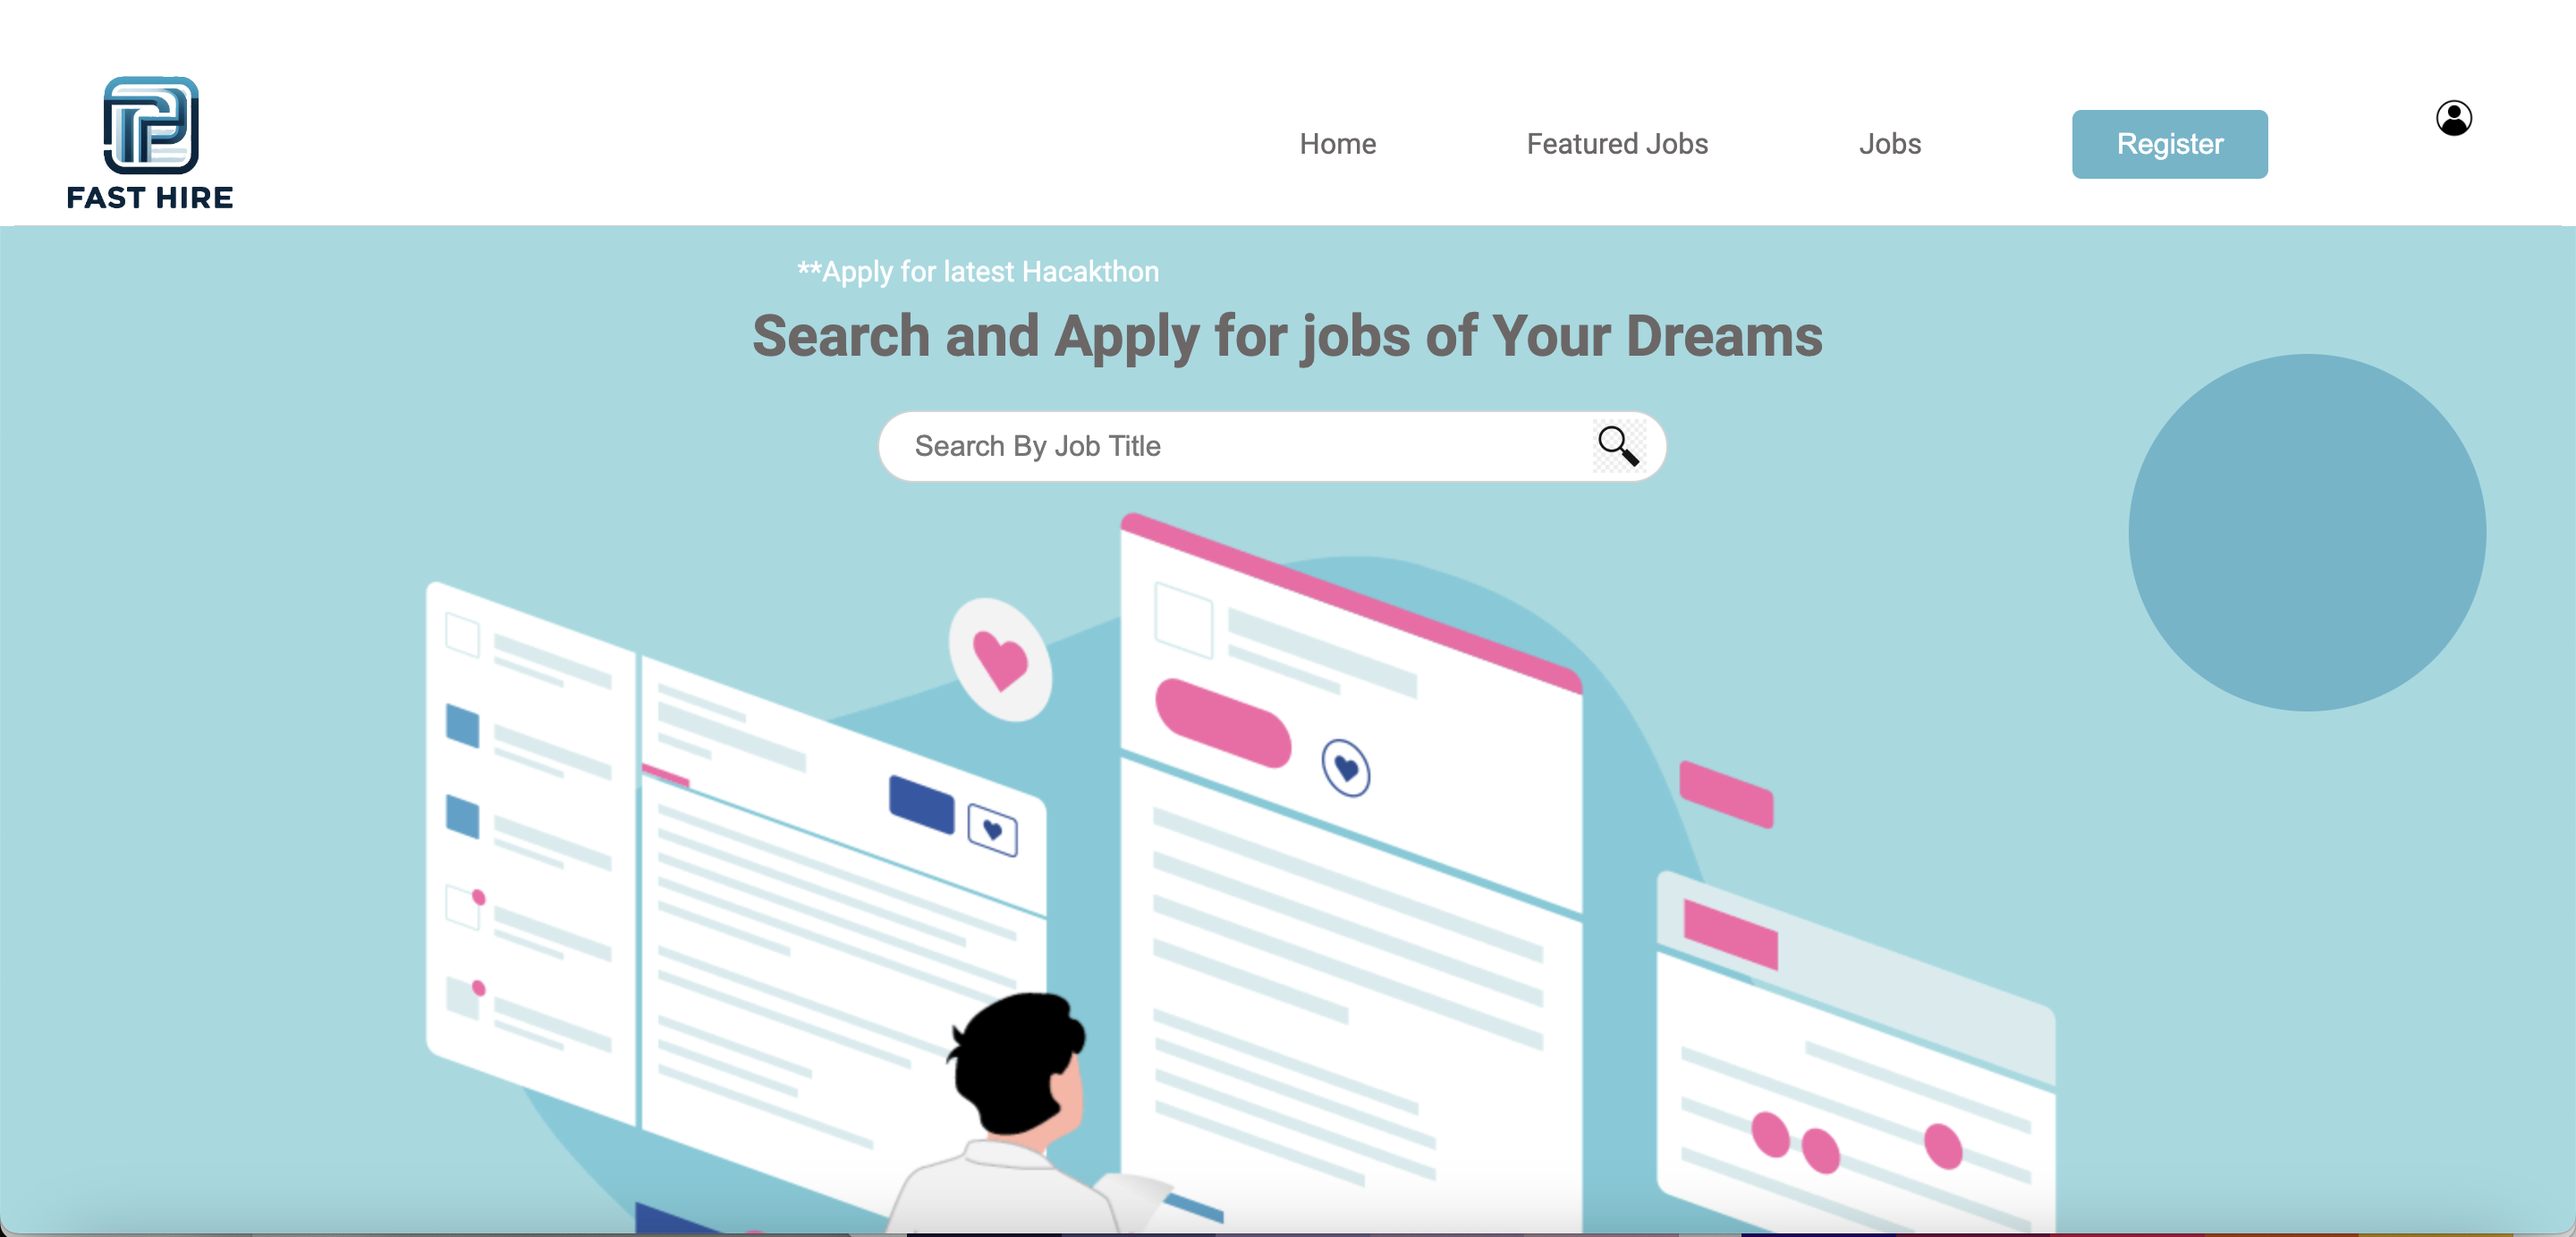
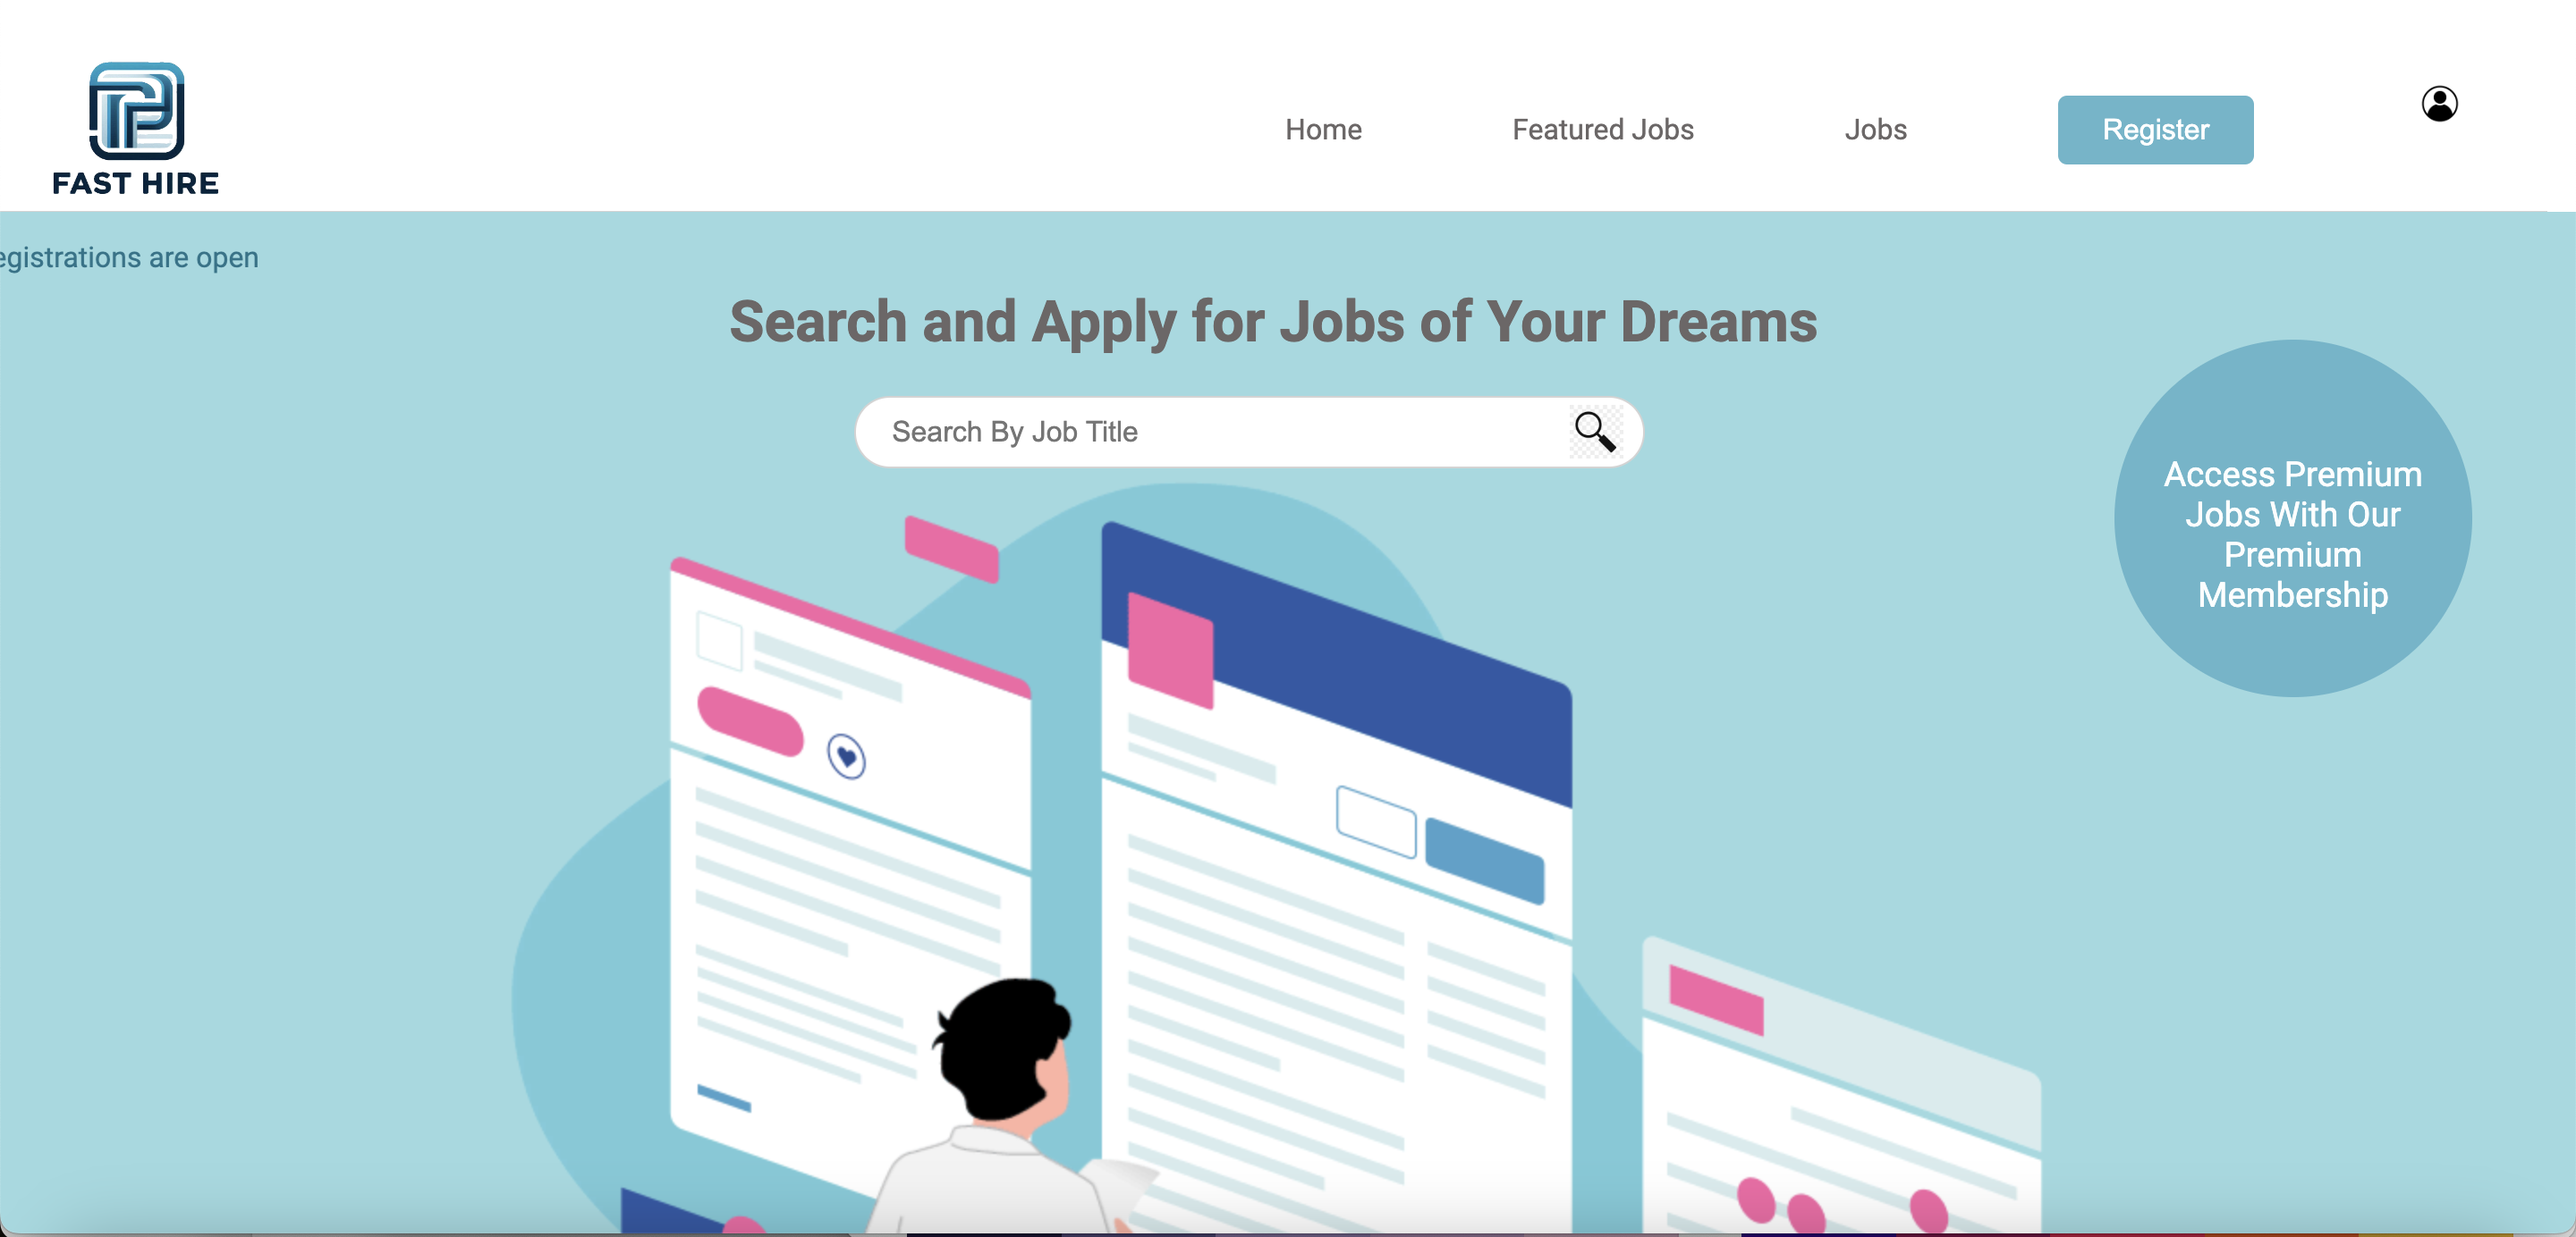
version 4 of readme.md

diff --git a/index.html b/index.html
@@ -58,7 +58,10 @@
     </header>
     <div class="job">
       <div class="marquee" style="position: absolute; margin-bottom: 40px">
-        <p class>**Apply for latest Hacakthon</p>
+        <p style="color: #1c748a">
+          Upcoming Job Hackathons : Nov 30th 2024, 10 Jan 2024. Registrations
+          are open
+        </p>
       </div>
       <h1 style="position: absolute; top: 150px">
         <input
@@ -81,7 +84,7 @@
             width="30px"
             style="position: absolute; left: 470px; margin-top: 65px"
         /></a>
-        Search and Apply for jobs of Your Dreams
+        Search and Apply for Jobs of Your Dreams
       </h1>
       <div
         style="
@@ -99,7 +102,9 @@
         "
       >
         <p id="premium">
-          <br /><br />Click for Premium<br />
+          <br /><br />Access Premium <br />
+          Jobs With Our<br />
+          Premium<br />
           Membership<br />
         </p>
       </div>

diff --git a/pages/apply.html b/pages/apply.html
@@ -14,7 +14,7 @@
         justify-content: center;
       }
       .apply-box > div {
-        background-color: #9cdae0;
+        /* background-color: #9cdae0; */
         border-radius: 5px;
       }
     </style>
@@ -67,11 +67,12 @@
           margin-top: 100px;
           width: 400px;
           height: 350px;
-          border: 1px solid lightgray;
+          /* border: 1px solid lightgray; */
         "
       >
         <h2 style="margin-top: 130px; padding: 20px; text-align: center">
-          Thanks for applying will get back to you shortly
+          Thanks for applying. We will get back to you shortly. Your application
+          id is: JP0001234
         </h2>
       </div>
     </div>

diff --git a/pages/login.html b/pages/login.html
@@ -91,8 +91,8 @@
                       padding: 10px 30px;
                       font-size: 1rem;
                       background-color: rgb(142, 195, 209);
-                      margin-top: 20px;
                       color: white;
+                      margin: 10px 0px;
                     "
                   />
                 </td>

diff --git a/ReadMe.md b/ReadMe.md
@@ -1,6 +1,6 @@
 # Fast Hire: A Job Search Portal
 
-As part of skill based assesment,I completed a project that involved creating a basic job search portal titled FastHire using HTML, CSS. This project is designed to showcase my skills in HTML and CSS.It is a static website that allows users to register, login, search and apply for jobs.I used HTML and CSS to design and style the interface.I also gained experience working with version control tools such as Git and GitHub.
+As part of skill based assesment,I completed a project that involved creating a basic job search portal titled FastHire using HTML, CSS. This project is designed to showcase my skills in HTML and CSS.It is a **static website** that allows users to register, login, search and apply for jobs.I used HTML and CSS to design and style the interface.I also gained experience working with version control tools such as Git and GitHub.
 
 ## Tech-Stack-
 
@@ -35,4 +35,16 @@ Use at least two CSS animations.[ included 2 css animations on index.html]
 
 ## Screenshots
 
+### Landing Page
+
 ![alt text](index.png)
+
+![alt text](featuredJobs.png)
+
+![alt text](jobs.png)
+
+![alt text](register.png)
+
+![alt text](login.png)
+
+![alt text](image.png)
